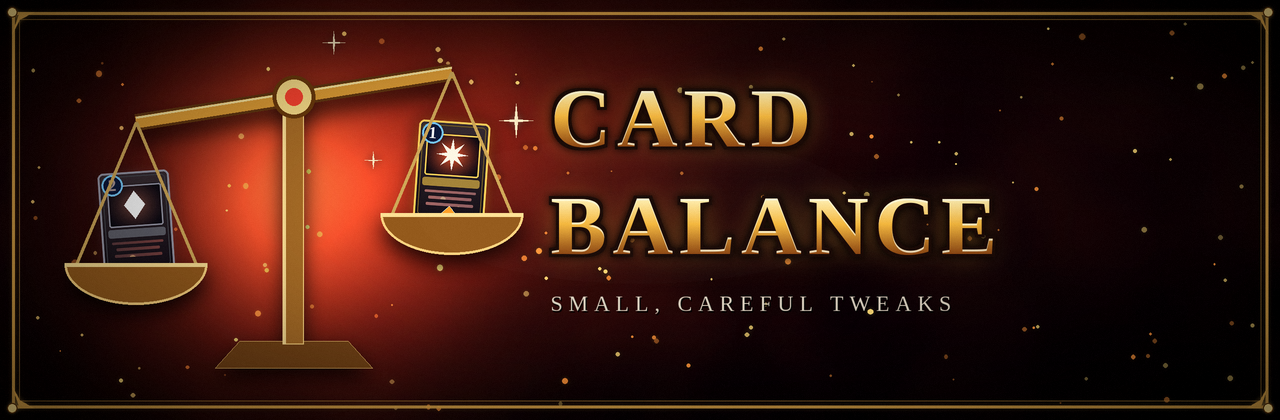
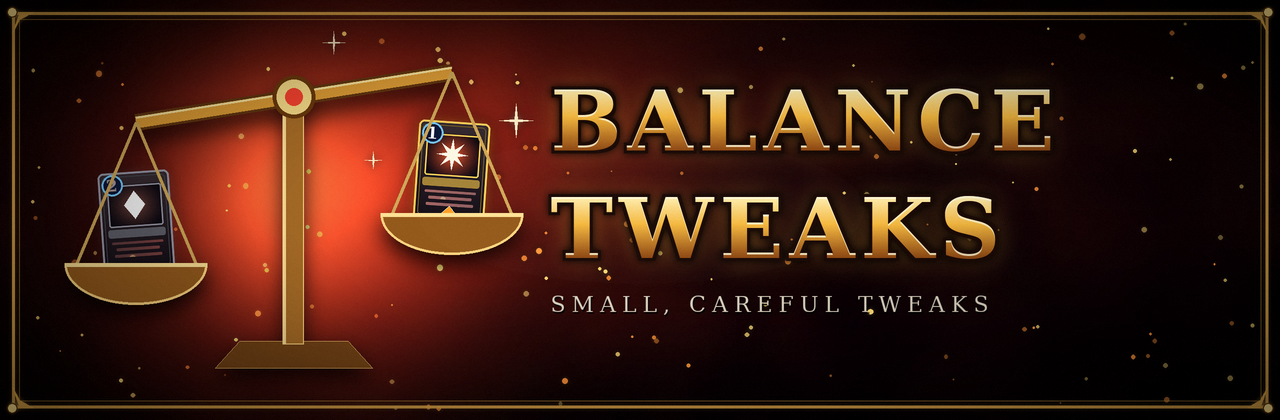
Rename Card Balance to Balance Tweaks, release v1.1.0

Changed region(s): [[0.4062, 0.1857, 0.8438, 0.3714], [0.4062, 0.4333, 0.7812, 0.619], [0.4375, 0.681, 0.7812, 0.7429]]

diff --git a/mods/CardBalance/src/SettingsMenuPatch.cs b/mods/CardBalance/src/SettingsMenuPatch.cs
@@ -1,10 +1,10 @@
-using Godot;
+using Godot;
 using HarmonyLib;
 using MegaCrit.Sts2.Core.Nodes.Screens.Settings;
 
 namespace RasmusCardBalance;
 
-// Adds a "Card Balance" section with one checkbox per tweak to the bottom of Settings > General.
+// Adds a "Balance Tweaks" section with one checkbox per tweak to the bottom of Settings > General.
 // Built from stock nodes and added in a postfix on NSettingsScreen._Ready, so the screen's own
 // code is untouched. Tweaks apply at startup, so the section says a restart is needed.
 [HarmonyPatch(typeof(NSettingsScreen), nameof(NSettingsScreen._Ready))]
@@ -19,7 +19,7 @@ public static class SettingsMenuPatch
             var content = __instance.GetNodeOrNull<NSettingsPanel>("%GeneralSettings")?.Content;
             if (content == null)
             {
-                MainFile.Logger.Error("Settings screen has no %GeneralSettings panel; Card Balance toggles not added. The game probably updated.");
+                MainFile.Logger.Error("Settings screen has no %GeneralSettings panel; Balance Tweaks toggles not added. The game probably updated.");
                 return;
             }
 
@@ -28,7 +28,7 @@ public static class SettingsMenuPatch
         }
         catch (Exception e)
         {
-            MainFile.Logger.Error($"Could not add Card Balance toggles to the settings screen: {e}");
+            MainFile.Logger.Error($"Could not add Balance Tweaks toggles to the settings screen: {e}");
         }
     }
 
@@ -37,7 +37,7 @@ public static class SettingsMenuPatch
         var section = new VBoxContainer { Name = SectionName };
         section.AddThemeConstantOverride("separation", 6);
         section.AddChild(new HSeparator());
-        section.AddChild(new Label { Text = "Card Balance (applies after restarting the game)" });
+        section.AddChild(new Label { Text = "Balance Tweaks (applies after restarting the game)" });
 
         var note = new Label { Text = "", Modulate = new Color(1f, 0.8f, 0.4f), Visible = false };
 

diff --git a/build/make_art.py b/build/make_art.py
@@ -658,7 +658,7 @@ MODS = {
         top=(8, 22, 38), bottom=(4, 8, 18), light=(30, 120, 140), emb=[(120, 230, 255), (255, 220, 140)], emblem=emblem_seed, seed=1,
     ),
     "CardBalance": dict(
-        name="CARD BALANCE", icon_label="CARD BALANCE", icon_r=0.27, icon_y=0.5, words=("CARD", "BALANCE"), tag="SMALL, CAREFUL TWEAKS",
+        name="BALANCE TWEAKS", icon_label="BALANCE TWEAKS", icon_r=0.27, icon_y=0.5, words=("BALANCE", "TWEAKS"), tag="SMALL, CAREFUL TWEAKS",
         top=(34, 8, 10), bottom=(12, 4, 8), light=(150, 40, 20), emb=[(255, 150, 60), (255, 220, 120)], emblem=emblem_balance, seed=2,
     ),
     "CardRarityRandomizer": dict(

diff --git a/CLAUDE.md b/CLAUDE.md
@@ -1,4 +1,4 @@
-# CLAUDE.md
+# CLAUDE.md
 
 This file provides guidance to Claude Code (claude.ai/code) when working with code in this repository.
 
@@ -13,7 +13,7 @@ build/Sts2PathDiscovery.props   shared game path discovery; every csproj imports
 build/make_art.py               generates the icon/banner art (needs Pillow)
 mods/<Name>/                    one self-contained mod: <id>.csproj, <id>.json (manifest), MainFile.cs, src/, README.md, art/, workshop/
 mods/SeedSearch/                id RasmusSlayTheSpire2Mod (legacy id, kept so the existing Workshop item survives); includes seed-engine/ (Rust)
-mods/CardBalance/               id RasmusCardBalance; card/relic tweaks (Master Planner, Calculated Gamble, Unceasing Top) with per-tweak toggles
+mods/CardBalance/               id RasmusCardBalance, displayed as "Balance Tweaks" (folder and id kept so the Workshop item survives); card/relic tweaks (Master Planner, Calculated Gamble, Unceasing Top) with per-tweak toggles
 mods/CardRarityRandomizer/      third mod (randomized card rarities); follows the same layout
 mods/MapPathHighlight/          fourth mod (optimal route pathfinding & current animation on hover); follows the same layout
 ```
@@ -48,7 +48,7 @@ tools/ModUploader/ModUploader.exe upload -w mods/SeedSearch/workshop
 
 - **Manifest** (`RasmusSlayTheSpire2Mod.json`): the file name, `id`, project name and output assembly name must all match, because the game locates `<id>.dll` from it. The `id` must not change once published. `affects_gameplay` is `true`, so all multiplayer lobby members need the mod. Set `has_pck` to `true` only if a `.pck` is actually shipped.
 - **Entry point** (`MainFile.cs`): `[ModInitializer(nameof(Initialize))]` makes the game call `Initialize` at mod load, which runs `Harmony.PatchAll`. Any `[HarmonyPatch]` class in the assembly is therefore picked up automatically; new tweaks need no registration.
-- **Card Balance patches** (`mods/CardBalance/`): one file per changed card. Game cards live in `MegaCrit.Sts2.Core.Models.Cards` and derive from `CardModel`, whose constructor is `(canonicalEnergyCost, type, rarity, targetType, shouldShowInCardLibrary)`. The canonical cost is a get-only property set in that constructor, and `EnergyCost` is built lazily from it, so base stats are changed by transpiling the card's own constructor (see `mods/CardBalance/src/MasterPlannerPatch.cs`) rather than by patching getters. Patches log an error when the expected IL is no longer there, so a game update fails loudly in `godot.log`. Each tweak is registered in `mods/CardBalance/src/Tweaks.cs` (id, name, description, patch class), so adding one is a patch file plus a registry entry. `MainFile.Initialize` patches only the enabled tweaks via `CreateClassProcessor` (restart required: mods load once at startup), and unregistered `[HarmonyPatch]` classes (e.g. `SettingsMenuPatch`) are applied unconditionally. `SettingsMenuPatch` appends a checkbox section to Settings > General via a postfix on `NSettingsScreen._Ready` (stock nodes, logs an error if `%GeneralSettings` is gone). Choices persist in `<user data>/RasmusCardBalance/settings.json` (`Settings.cs`). Multiplayer members need matching toggles.
+- **Balance Tweaks patches** (`mods/CardBalance/`): one file per changed card. Game cards live in `MegaCrit.Sts2.Core.Models.Cards` and derive from `CardModel`, whose constructor is `(canonicalEnergyCost, type, rarity, targetType, shouldShowInCardLibrary)`. The canonical cost is a get-only property set in that constructor, and `EnergyCost` is built lazily from it, so base stats are changed by transpiling the card's own constructor (see `mods/CardBalance/src/MasterPlannerPatch.cs`) rather than by patching getters. Patches log an error when the expected IL is no longer there, so a game update fails loudly in `godot.log`. Each tweak is registered in `mods/CardBalance/src/Tweaks.cs` (id, name, description, patch class), so adding one is a patch file plus a registry entry. `MainFile.Initialize` patches only the enabled tweaks via `CreateClassProcessor` (restart required: mods load once at startup), and unregistered `[HarmonyPatch]` classes (e.g. `SettingsMenuPatch`) are applied unconditionally. `SettingsMenuPatch` appends a checkbox section to Settings > General via a postfix on `NSettingsScreen._Ready` (stock nodes, logs an error if `%GeneralSettings` is gone). Choices persist in `<user data>/RasmusCardBalance/settings.json` (`Settings.cs`). Multiplayer members need matching toggles.
 - **Seed search** (`mods/SeedSearch/src/` plus the Rust crate `mods/SeedSearch/seed-engine/`): a Search Seed button added next to the seed box of the Custom Run screen (singleplayer only) by a postfix on `NCustomRunScreen._Ready`. It opens `SeedSearchScreen`, a full-screen overlay on its own `CanvasLayer`, which switches between two views that each get the whole width: `FilterPanel` (a rail of tabs whose icon grids build the filters) and the results with `PreviewPanel` (one seed as icon rows, with the act maps beside them). A sidebar stays in both views: the `InfoPanel` and the active filters (`FilterPanel.Active`). `Visuals.cs` holds the theme and maps each id in a `GameData` to the game's own art, always behind `ResourceLoader.Exists` so missing art falls back to text. The UI uses stock Godot nodes only; do not subclass nodes in the mod assembly (so it cannot be an `NSubmenu`). The game's hover tips render below this layer, hence the screen's own `InfoPanel`.
   - **Only possible filters** (`Feasibility.cs`, plus the option lists in `GameData`): the pickers list only what a seed can generate (`FirstRewardCards`, `NeowGiveOptions`, `FightOptions`, `SharedBagDealt`), and `CondCodec` drops saved filters outside those lists. `Feasibility.Conflict` refuses a filter that cannot hold together with the ones already there; a new `Cond` type that can contradict another needs a rule in it. Map counts are not bounded.
   - **Bookmarks and saved searches** (`SavedData.cs`, `CondCodec.cs`): bookmarked seeds and the searches that were run or kept, in `seed_search.json` under `<user data>/RasmusSlayTheSpire2Mod/` (not the mod folder, where every `.json` is read as a manifest). The ids in a `Cond` only hold for one `GameData`, so `CondCodec` stores each as its `ModelId.Entry` and resolves it against the current data on load, dropping filters that do not exist there. A new `Cond` type needs a case in both of its switches.

diff --git a/mods/CardBalance/README.md b/mods/CardBalance/README.md
@@ -1,8 +1,8 @@
-<p align="center"><img src="art/banner.png" alt="Card Balance"></p>
+<p align="center"><img src="art/banner.png" alt="Balance Tweaks"></p>
 
-# Card Balance
+# Balance Tweaks
 
-Small, targeted card balance changes for Slay the Spire 2. Code-only (Harmony patches): no BaseLib, no `.pck`, no dependencies.
+Small, targeted card and relic balance changes for Slay the Spire 2. Code-only (Harmony patches): no BaseLib, no `.pck`, no dependencies.
 
 ## Changes
 
@@ -14,7 +14,7 @@ Small, targeted card balance changes for Slay the Spire 2. Code-only (Harmony pa
 
 ## Turning changes on and off
 
-Every change has its own checkbox under **Settings > General**, in the *Card Balance* section at the bottom. All are on by default. Choices are saved to <user data>/RasmusCardBalance/settings.json (not the mod folder, whose .json files are read as manifests).
+Every change has its own checkbox under **Settings > General**, in the *Balance Tweaks* section at the bottom. All are on by default. Choices are saved to <user data>/RasmusCardBalance/settings.json (not the mod folder, whose .json files are read as manifests).
 
 Changes take effect **after restarting the game**. Mods load only at startup and a disabled tweak is simply never patched in, which keeps the patches free of runtime checks (a cost, stat or keyword change applied mid-run would also leave existing cards and saved runs inconsistent). The section shows a reminder when your saved choices differ from what is active.
 

diff --git a/README.md b/README.md
@@ -5,7 +5,7 @@ Built against game version 0.111.0. Each mod lives in its own folder under `mods
 | Mod | What it does |
 | --- | --- |
 | [Seed Search](mods/SeedSearch/) | Find seeds by Neow offers, bosses, events, fights, relic order, maps and the first card reward. A Rust engine searches millions of seeds per second. |
-| [Card Balance](mods/CardBalance/) | Small card balance changes (Master Planner costs 1, 0 upgraded). |
+| [Balance Tweaks](mods/CardBalance/) | Small card and relic balance tweaks, each toggleable in game (Master Planner, Calculated Gamble, Unceasing Top). |
 | [Card Rarity Randomizer](mods/CardRarityRandomizer/) | Shuffles card rarities for each run while preserving card stats. |
 | [Map Path Highlighter](mods/MapPathHighlight/) | Hover over any map location to highlight the optimal path maximizing Elites, Rest Sites, and Shops, animated with an upward electric current. |
 
@@ -36,7 +36,7 @@ Uses Mega Crit's [ModUploader](https://github.com/megacrit/sts2-mod-uploader/rel
 3. Edit `mods/<Name>/workshop/workshop.json` (`changeNote`, `visibility`) and `image.png` (under 1 MB).
 4. `tools/ModUploader/ModUploader.exe upload -w mods/<Name>/workshop`
 
-The first upload writes `mod_id.txt`; later uploads update that item. Card Balance has not been uploaded yet.
+The first upload writes `mod_id.txt`; later uploads update that item. Balance Tweaks (folder `mods/CardBalance`, id `RasmusCardBalance`) is Workshop item 3829021578.
 
 ## License
 
